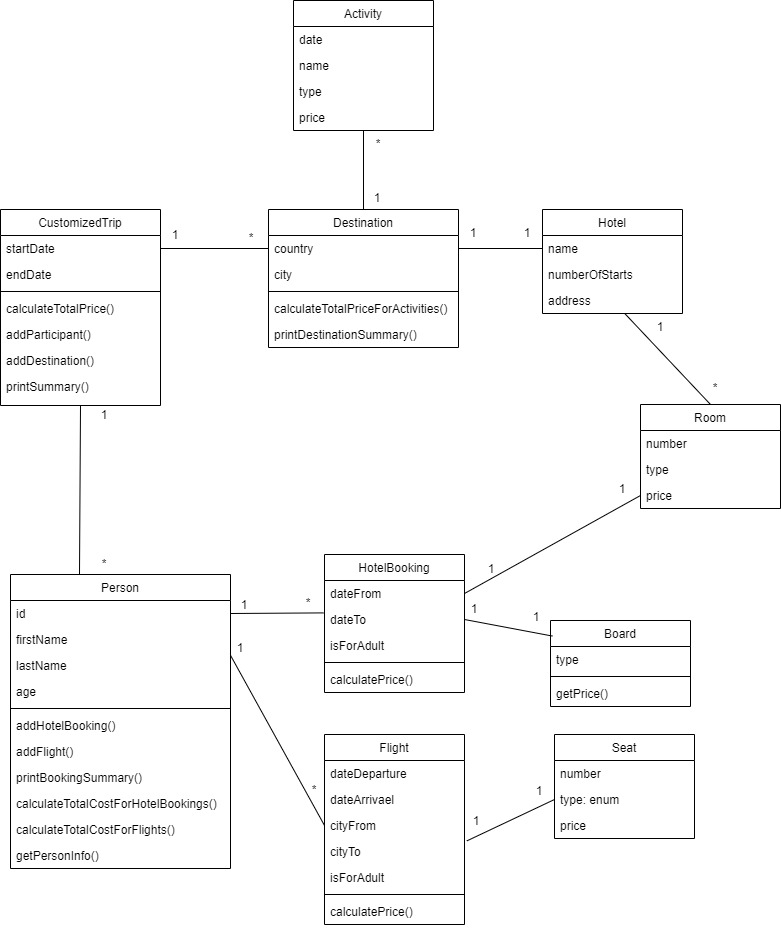
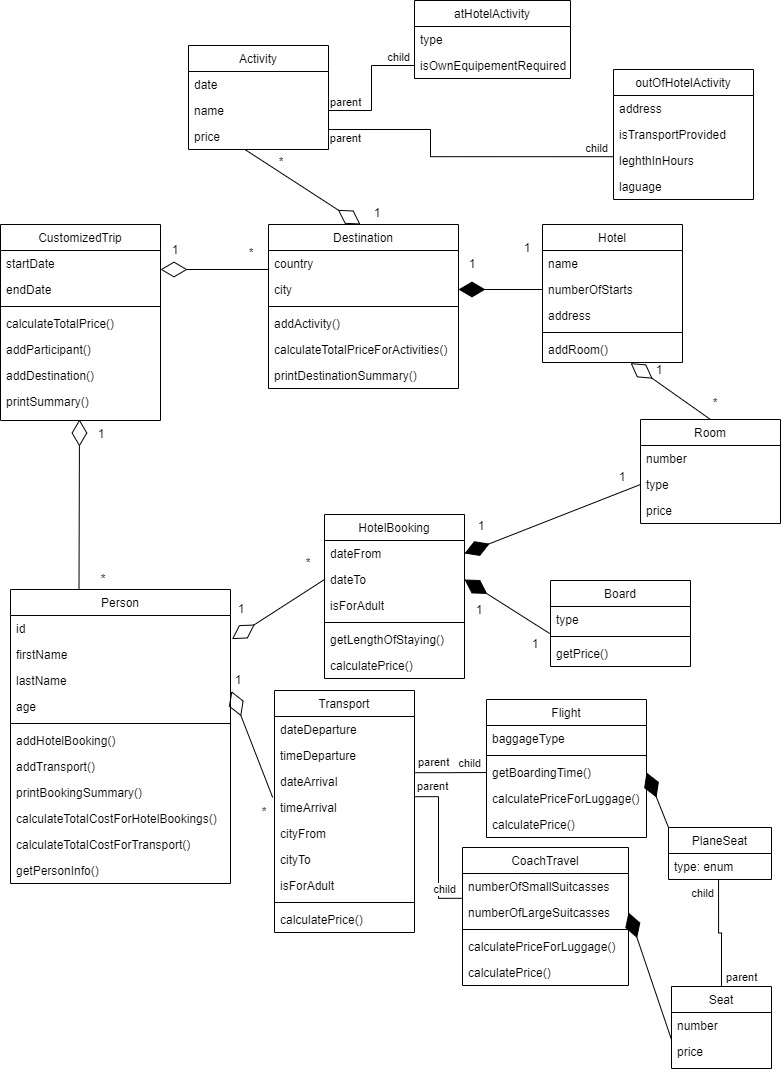
Updated class diagram and readme

diff --git a/src/main/java/hotel/HotelBooking.java b/src/main/java/hotel/HotelBooking.java
@@ -40,13 +40,13 @@ public class HotelBooking {
         this.board = new Board(boardType);
     }
 
-    public int lengthOfStaying() {
+    private int getLengthOfStaying() {
         Period period = Period.between(dateFrom, dateTo);
         return period.getDays();
     }
 
     public BigDecimal calculatePrice() {
-        BigDecimal totalPrice = (room.getPrice().add(board.getPrice())).multiply(new BigDecimal(lengthOfStaying()));
+        BigDecimal totalPrice = (room.getPrice().add(board.getPrice())).multiply(new BigDecimal(getLengthOfStaying()));
         return isForAdult() ? totalPrice : totalPrice.divide(new BigDecimal(2));
     }
 

diff --git a/README.md b/README.md
@@ -6,18 +6,18 @@ Participants can travel to many destinations during one trip.
 - list of hotel bookings (that has info about room and board type)  
 Hotel bookings are individual for each participant. Each participant can have many hotel bookings as can travel to many 
 destinations.
-- list of flights  
-Flights are individual for each participant. Each participant can have many flights as can travel to many
+- list of transport bookings (transport by couch or by plane)  
+Transport bookings are individual for each participant. Each participant can have many flights/couch as can travel to many
   destinations.
 
 Travel Agency class simulates situation when the family of 4 would like to buy a trip to Malaga in Spain from 5th
-to 15th of May 2022. They have a list of requirements concerning flight, rooms and activities at destination place.
+to 15th of May 2022. They have a list of requirements concerning means of transport, rooms and activities at destination place.
 
 At the end program will print info about the trip containing:
 - date
 - total cost
 - participants
 - destinations with chosen activities
-- booking of hotels and flights per participant
+- booking of hotels and transport per participant
 
 ![](src/main/resources/TravelAgencyClassesDiagram.jpg)
